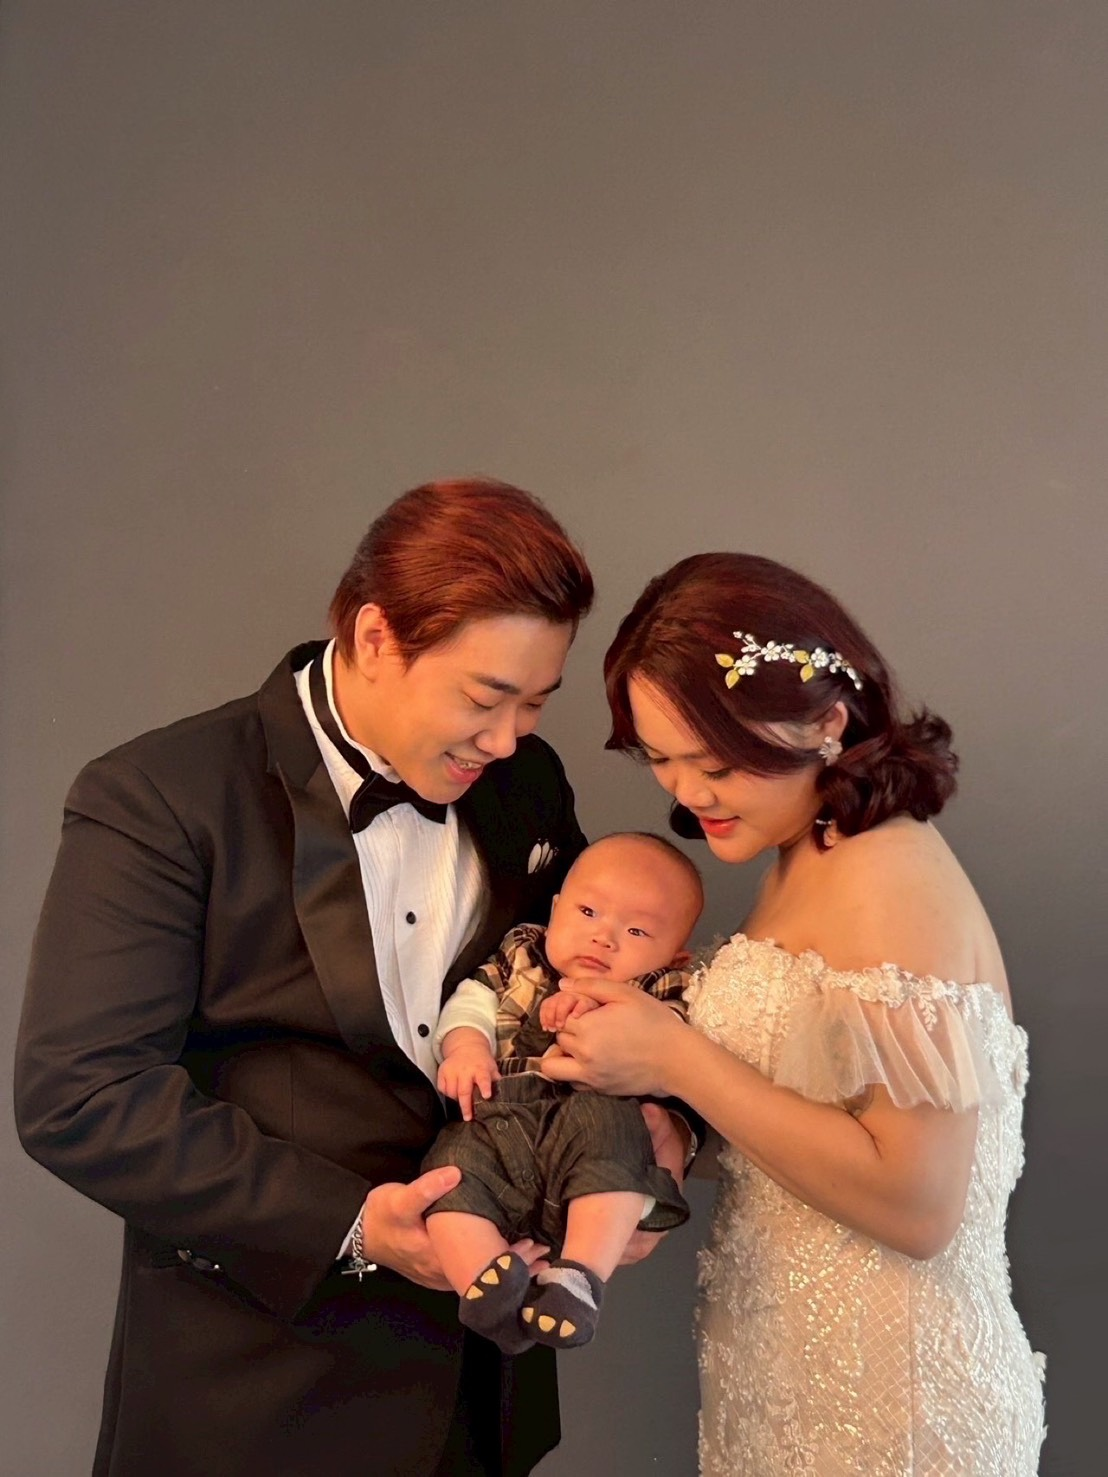
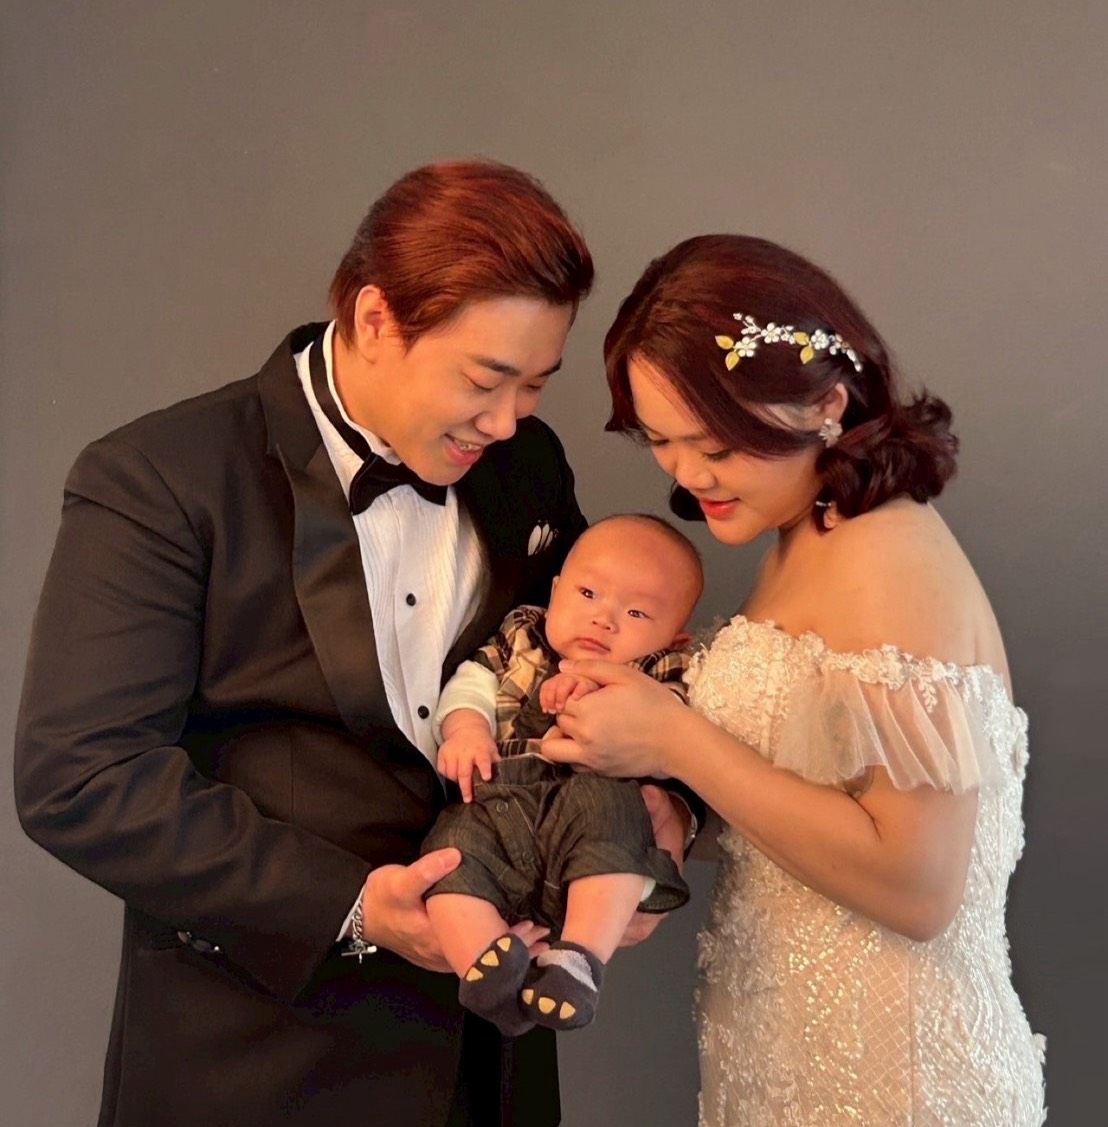
調整主畫面背景圖片

diff --git a/ko.html b/ko.html
@@ -60,7 +60,7 @@
                 <h2></h2>
                 <h2>
                     🤵 <span class="groom-name">저장재 (Changcai Chu)</span> &
-                    👰 <span class="bride-name">이자혜 (Zihui Li)</span>
+                    <span class="bride-name">이자혜 (Zihui Li)</span> 👰
                 </h2>
                 <p class="date">| 2026년 03월 21일 |</p>
                 

diff --git a/index.html b/index.html
@@ -72,7 +72,7 @@
                 <h2></h2>
                 <h2>
                     🤵 <span class="groom-name">褚長財</span> &
-                    👰 <span class="bride-name">李姿慧</span>
+                     <span class="bride-name">李姿慧</span> 👰
                 </h2>
                 <p class="date">| 2026 年 03 月 21 日 |</p>
                 

diff --git a/en.html b/en.html
@@ -61,7 +61,7 @@
                 <h2></h2>
                 <h2>
                 🤵 <span class="groom-name">Changcai Chu</span> &
-                👰 <span class="bride-name">Zihui Li</span>
+                <span class="bride-name">Zihui Li</span> 👰
                 </h2>
                 <p class="date">| March 21, 2026 |</p>
                 

diff --git a/style.css b/style.css
@@ -358,8 +358,8 @@ footer {
  * 7. 新增：音樂控制按鈕樣式
  * ------------------------------------ */
 .music-btn {
-  width: 55px;
-  height: 55px;
+  width: 40px;
+  height: 40px;
   border-radius: 50%;
   /* 核心修正：改為主題紅色，提供高對比 */
   background: #8B0000;
